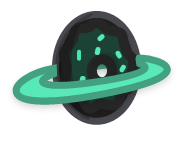
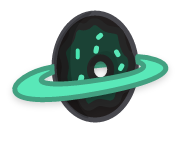
stats determined gameplay stats, lasers are centered, images improved

diff --git a/invaders.py b/invaders.py
@@ -11,6 +11,7 @@ from classes.disappear import Disappear
 from classes.reappear import Reappear
 from classes.move import Move
 from classes.model import Model
+from classes.stats import Stats
 from slimstampen.spacingmodel import Response
 from utilities.constants import *
 from utilities.main_functions import *
@@ -27,7 +28,7 @@ pygame.init()
 infoObject = pygame.display.Info()
 
 
-def main(ship):
+def main(ship, ship_name):
     # Dictates if while loop is going to run
     run = True
     # Amount of frames per second (checking if character is moving once every second)
@@ -46,13 +47,15 @@ def main(ship):
     # Every level a new wave will be created of 5 enemies
     wave_length = 3
     enemy_velocity = 0.5
-
+    print(ship_name)
+    stats = Stats(ship_name)
     # How fast the player can move every time you press the key a max of 5 pixels to move
-    player_velocity = 5
+    player_velocity = 4 + stats.ship_speed
     laser_velocity = 4
+    player_laser_velocity = 3 + stats.laser_speed
 
     # Define a player space ship at location
-    player = Player(WIDTH / 2, HEIGHT, ship)
+    player = Player(WIDTH / 2, HEIGHT, ship, stats)
     # Center the ship on screen
     player.x -= (player.get_width() / 2)
     player.y -= (player.get_height() + 50)
@@ -247,7 +250,7 @@ def main(ship):
 
         # Laser velocity needs to be negative since the y value is lower upwards the screen, meaning laser will go up
         # TODO: Extra parameter SlimStampen question
-        has_hit_enemy, enemy = player.move_lasers(-laser_velocity, enemies, WINDOW)
+        has_hit_enemy, enemy = player.move_lasers(-player_laser_velocity, enemies, WINDOW)
         if has_hit_enemy and not answering_question:
 
             enemy_hit = enemy
@@ -510,13 +513,13 @@ def choose_color(chosen_ship):
                 if back_button.isHovered(position):
                     choose_fighter()
                 if purple_button.isHovered(position):
-                    main(choose_ship(chosen_ship, "purple"))
+                    main(choose_ship(chosen_ship, "purple"), chosen_ship)
                 if green_button.isHovered(position):
-                    main(choose_ship(chosen_ship, "green"))
+                    main(choose_ship(chosen_ship, "green"), chosen_ship)
                 if red_button.isHovered(position):
-                    main(choose_ship(chosen_ship, "red"))
+                    main(choose_ship(chosen_ship, "red"), chosen_ship)
                 if gold_button.isHovered(position):
-                    main(choose_ship(chosen_ship, "gold"))
+                    main(choose_ship(chosen_ship, "gold"), chosen_ship)
     pygame.quit()
 
 

diff --git a/classes/ship.py b/classes/ship.py
@@ -55,10 +55,10 @@ class Ship:
     def shoot(self):
         # Only shoot laser if the cooldown counter is 0
         if self.cool_down_counter == 0:
-            if self.ship_img.get_width()<=100:
-                laser = Laser(self.x-(abs(self.ship_img.get_width()-100)/2), self.y-40, self.laser_img)
-            else:
-                laser = Laser(self.x+(abs(self.ship_img.get_width()-100)/2), self.y-40, self.laser_img)
+            # if self.ship_img.get_width()<=100:
+            laser = Laser(self.x+(abs(self.ship_img.get_width())/2) - (self.laser_img.get_width() / 2), self.y, self.laser_img)
+            # else:
+            #     laser = Laser(self.x+(abs(self.ship_img.get_width())/2), self.y, self.laser_img)
 
             self.lasers.append(laser)
             self.cool_down_counter = 1

diff --git a/classes/player.py b/classes/player.py
@@ -5,12 +5,12 @@ from utilities.constants import *
 
 # Inherits from player (so all the things from player are also in player)
 class Player(Ship):
-    def __init__(self, x, y, ship, health=100):
+    def __init__(self, x, y, ship, stats, health=100):
         # Use ship's initialization method
         super().__init__(x, y, health)
 
         self.ship_img = ship
-        self.laser_img = YELLOW_LASER
+        self.laser_img = pygame.image.load(os.path.join("assets", "pixel_laser_yellow_" + str(stats.laser_width) + ".png"))
         # Mask for pixel perfect collision instead of square collision box
         self.mask = pygame.mask.from_surface(self.ship_img)
         self.max_health = health

diff --git a/utilities/constants.py b/utilities/constants.py
@@ -47,7 +47,7 @@ DONUT = pygame.image.load(os.path.join("assets/ships", "donut_warrior_purple.png
 RED_LASER = pygame.image.load(os.path.join("assets", "pixel_laser_red.png"))
 GREEN_LASER = pygame.image.load(os.path.join("assets", "pixel_laser_green.png"))
 BLUE_LASER = pygame.image.load(os.path.join("assets", "pixel_laser_blue.png"))
-YELLOW_LASER = pygame.image.load(os.path.join("assets", "pixel_laser_yellow.png"))
+YELLOW_LASER = pygame.image.load(os.path.join("assets", "pixel_laser_yellow_1.png"))
 
 # Background
 BACKGROUND = pygame.transform.scale(pygame.image.load(os.path.join("assets", "background_black.png")), (WIDTH, HEIGHT))

diff --git a/classes/enemy.py b/classes/enemy.py
@@ -36,6 +36,6 @@ class Enemy(Ship):
         # Only shoot laser if the cooldown counter is 0
         if self.cool_down_counter == 0:
             # Offset the laser x position a little so it comes from the center of the enemy ship
-            laser = Laser(self.x + 15, self.y, self.laser_img)
+            laser = Laser(self.x+(abs(self.ship_img.get_width())/2) - (self.laser_img.get_width() / 2), self.y + self.ship_img.get_height() - (self.laser_img.get_height()/2), self.laser_img)
             self.lasers.append(laser)
             self.cool_down_counter = 1
